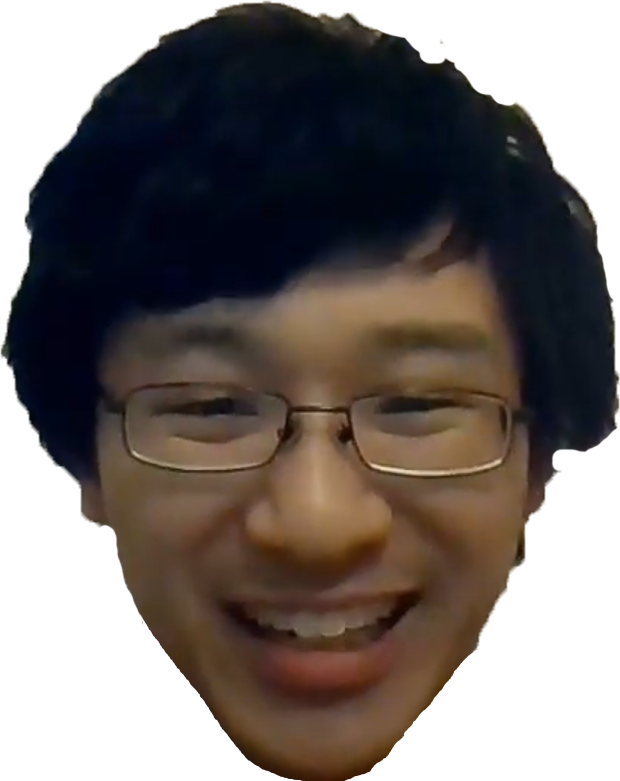
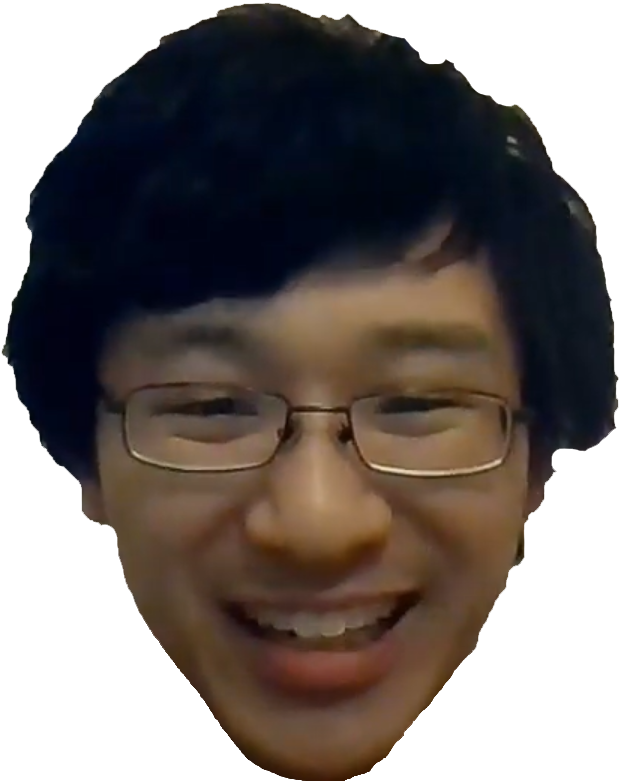
Fixed Photo

diff --git a/Main.java b/Main.java
@@ -15,14 +15,12 @@ public class Main extends Application{
         Pane pane = new Pane();
         Image img = new Image("wang.png");
         ImageView imgV = new ImageView(img);
-        imgV.setFitWidth(100);
-        imgV.setFitHeight(100);  
-        imgV.setSmooth(true);
         pane.getChildren().add(imgV);
 
         ps.initStyle(StageStyle.TRANSPARENT);
         ps.setAlwaysOnTop(true);
         Scene scene = new Scene(pane);
+        scene.setFill(Color.TRANSPARENT);
         ps.setTitle("DesktopWang");
         ps.setScene(scene);
         ps.show();
